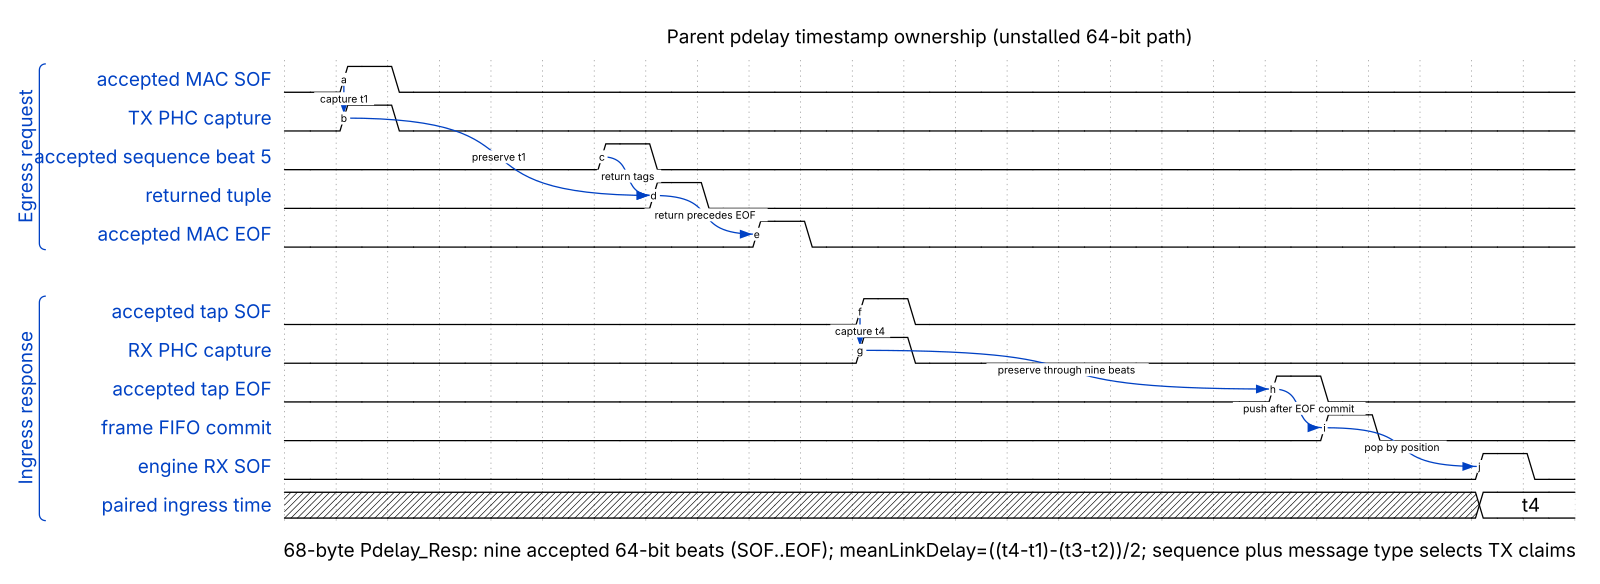
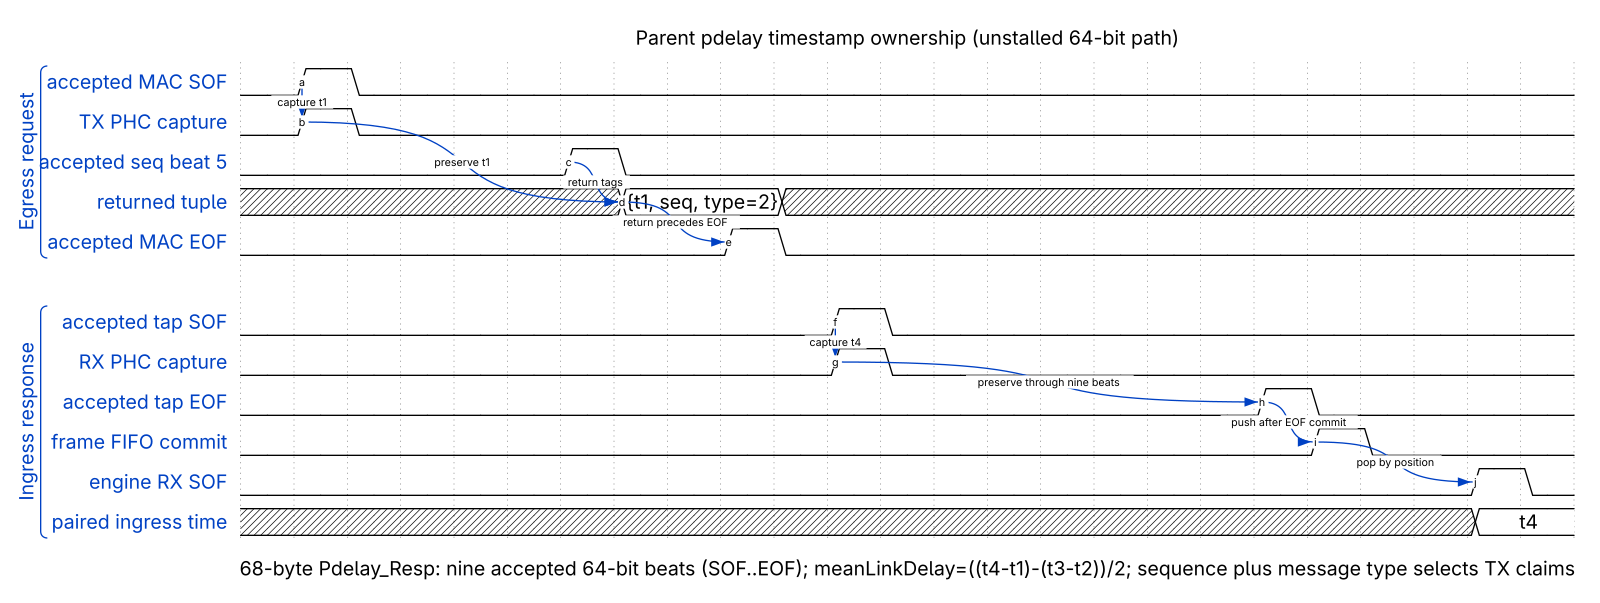
Embed the Pdelay timing authority and give both oracles negative controls

diff --git a/scripts/check_gptp_docs.py b/scripts/check_gptp_docs.py
@@ -9,6 +9,7 @@ import json
 import re
 import subprocess
 import sys
+import tempfile
 from pathlib import Path
 
 
@@ -46,6 +47,7 @@ DOCUMENT_TOKENS = {
         "Publication",
         "make -C gptp-processor",
         "make -C tb/verilator/gptp_shadow",
+        "PTP_INGRESS_LAT",
     ),
     "docs/design/TIME_SYNC.md": (
         "crf.media-clock-consumption",
@@ -55,6 +57,9 @@ DOCUMENT_TOKENS = {
         "Media clock",
         "KL_media_grid_align",
         "tu",
+        "391/1591",
+        "1.9582 s",
+        "EARLY_MARGIN_NS_C",
     ),
     "docs/design/GM_LOSS_RECOVERY.md": (
         "Announce timeout",
@@ -74,18 +79,22 @@ DOCUMENT_TOKENS = {
         "Risks",
         "Issue #74",
         "Issue #117",
+        "GM_LOSS_RECOVERY.md",
     ),
     "docs/guides/gptp/SYSTEM_INTEGRATOR.md": (
         "Configure",
         "Connect",
         "Observe",
         "Verify",
+        "GM_LOSS_RECOVERY.md",
     ),
     "docs/guides/gptp/HDL_DEVELOPER.md": (
         "KL_gptp_shadow",
         "KL_gptp_txstamp",
         "rx_accept.svg",
         "tx_backpressure.svg",
+        "wd_gptp_pdelay.svg",
+        "gtx_clk",
     ),
     "docs/guides/gptp/TEST_DEVELOPER.md": (
         "| Python |",
@@ -127,7 +136,7 @@ SOURCE_TOKENS = {
 WAVEDROM_TOKENS = (
     "accepted MAC SOF",
     "TX PHC capture",
-    "accepted sequence beat 5",
+    "accepted seq beat 5",
     "{t1, seq, type=2}",
     "accepted tap SOF",
     "RX PHC capture",
@@ -143,8 +152,8 @@ WAVEDROM_TOKENS = (
 # registered tuple before a normal Pdelay frame reaches tx_tlast_i. This order
 # is the interface contract; labels alone cannot prove it.
 WAVEDROM_ORDER = (
-    ("accepted MAC SOF", "accepted sequence beat 5"),
-    ("accepted sequence beat 5", "returned tuple"),
+    ("accepted MAC SOF", "accepted seq beat 5"),
+    ("accepted seq beat 5", "returned tuple"),
     ("returned tuple", "accepted MAC EOF"),
     ("accepted tap SOF", "accepted tap EOF"),
     ("accepted tap EOF", "frame FIFO commit"),
@@ -166,6 +175,11 @@ WAVEDROM_EXACT_DELTA = (
     ("accepted tap EOF", "frame FIFO commit", 1),
     ("frame FIFO commit", "engine RX SOF", 3),
 )
+# The one asserted event of an oracle signal is a level `1` or a WaveDrom value
+# symbol; the cycle is the symbol's string index, so `period`, `phase` and the
+# `|` stall - each of which moves a symbol off its index - are refused.
+VALUE_SYMBOLS = frozenset("=23456789")
+STALL_SYMBOL = "|"
 
 SUBMODULE_DOCS = (
     "README.md",
@@ -324,51 +338,88 @@ def flatten_json(value: object) -> list[str]:
     return [str(value)]
 
 
-def named_waves(value: object) -> dict[str, list[str]]:
-    """Collect every named WaveDrom signal without assuming group layout."""
-    waves: dict[str, list[str]] = {}
+def named_signals(value: object) -> dict[str, list[dict[str, object]]]:
+    """Collect every named WaveDrom signal object without assuming group layout."""
+    signals: dict[str, list[dict[str, object]]] = {}
     if isinstance(value, dict):
         name = value.get("name")
-        wave = value.get("wave")
-        if isinstance(name, str) and isinstance(wave, str):
-            waves.setdefault(name, []).append(wave)
+        if isinstance(name, str) and isinstance(value.get("wave"), str):
+            signals.setdefault(name, []).append(value)
         children = value.values()
     elif isinstance(value, list):
         children = value
     else:
         children = ()
     for child in children:
-        for child_name, items in named_waves(child).items():
-            waves.setdefault(child_name, []).extend(items)
-    return waves
+        for child_name, items in named_signals(child).items():
+            signals.setdefault(child_name, []).extend(items)
+    return signals
+
+
+def named_waves(value: object) -> dict[str, list[str]]:
+    """The wave string of every named WaveDrom signal, by name."""
+    return {
+        name: [str(signal["wave"]) for signal in signals]
+        for name, signals in named_signals(value).items()
+    }
+
+
+def timing_signal_names() -> set[str]:
+    """Every signal the order, same-cycle and exact-interval checks name."""
+    names = {name for pair in WAVEDROM_ORDER for name in pair}
+    names.update(name for pair in WAVEDROM_SAME_CYCLE for name in pair)
+    names.update(
+        name for before, after, _ in WAVEDROM_EXACT_DELTA for name in (before, after)
+    )
+    return names
+
+
+def event_cycle(
+    name: str, signal: dict[str, object], label: str
+) -> tuple[int | None, str]:
+    """The cycle of the one asserted event of an oracle signal, or None and the
+    finding: a `period`, a `phase` or a `|` stall is refused because the cycle
+    is read from the wave's string index, and exactly one `1` or value symbol
+    (`=`, `2`-`9`) must remain."""
+    for key in ("period", "phase"):
+        if key in signal:
+            return None, (
+                f"{label}: signal {name!r} must not set {key}; the timing oracle "
+                "reads cycles from wave indices"
+            )
+    wave = str(signal["wave"])
+    if STALL_SYMBOL in wave:
+        return None, (
+            f"{label}: signal {name!r} must not contain a {STALL_SYMBOL!r} stall; "
+            "the timing oracle reads cycles from wave indices"
+        )
+    events = [
+        index for index, symbol in enumerate(wave)
+        if symbol == "1" or symbol in VALUE_SYMBOLS
+    ]
+    if len(events) != 1:
+        return None, f"{label}: signal {name!r} must contain one asserted event"
+    return events[0], ""
 
 
 def wavedrom_value_findings(value: object, label: str) -> list[str]:
     """Label, order, same-cycle and exact-interval findings for one parsed
     WaveDrom document; `label` names it in each finding."""
     findings = token_findings(label, "\n".join(flatten_json(value)), WAVEDROM_TOKENS)
-    waves = named_waves(value)
+    signals = named_signals(value)
     cycles: dict[str, int] = {}
-    ordered_names = {name for pair in WAVEDROM_ORDER for name in pair}
-    ordered_names.update(name for pair in WAVEDROM_SAME_CYCLE for name in pair)
-    ordered_names.update(
-        name for before, after, _ in WAVEDROM_EXACT_DELTA
-        for name in (before, after)
-    )
-    for name in sorted(ordered_names):
-        matches = waves.get(name, [])
+    for name in sorted(timing_signal_names()):
+        matches = signals.get(name, [])
         if len(matches) != 1:
             findings.append(
                 f"{label}: expected one named signal {name!r}, found {len(matches)}"
             )
             continue
-        rises = [index for index, symbol in enumerate(matches[0]) if symbol == "1"]
-        if len(rises) != 1:
-            findings.append(
-                f"{label}: signal {name!r} must contain one asserted event"
-            )
+        cycle, finding = event_cycle(name, matches[0], label)
+        if cycle is None:
+            findings.append(finding)
             continue
-        cycles[name] = rises[0]
+        cycles[name] = cycle
     for before, after in WAVEDROM_ORDER:
         if before in cycles and after in cycles and cycles[before] >= cycles[after]:
             findings.append(
@@ -447,8 +498,10 @@ def gitlink_pin() -> str:
     return fields[1]
 
 
-def submodule_findings(root: Path = ROOT) -> list[str]:
-    """Findings for a donor checkout that is absent, off-pin, or missing a page."""
+def submodule_findings(root: Path = ROOT, *, pin: str | None = None) -> list[str]:
+    """Findings for the donor checkout under `root` when it is absent, off the
+    pin (`pin`; the production gitlink unless a fixture supplies one), or
+    missing a donor page."""
     checkout = root / "gptp-processor"
     if not checkout.is_dir():
         return ["gptp-processor: checkout is missing"]
@@ -459,7 +512,8 @@ def submodule_findings(root: Path = ROOT) -> list[str]:
             capture_output=True,
             text=True,
         ).stdout.strip()
-        pin = gitlink_pin()
+        if pin is None:
+            pin = gitlink_pin()
     except (OSError, subprocess.CalledProcessError, ValueError) as error:
         return [f"gptp-processor: cannot verify checkout: {error}"]
     findings = []
@@ -479,15 +533,18 @@ class SelftestFailure(Exception):
 
 def move_event(value: object, name: str, cycle: int) -> int:
     """Move the single asserted event of every signal named `name` to `cycle`
-    inside a parsed WaveDrom document; returns how many signals moved."""
+    inside a parsed WaveDrom document, keeping its symbol - a level `1` or a
+    value symbol; returns how many signals moved."""
     moved = 0
     if isinstance(value, dict):
         if value.get("name") == name and isinstance(value.get("wave"), str):
             symbols = list(value["wave"])
             if cycle >= len(symbols):
                 raise ValueError(f"cycle {cycle} is outside {name!r}")
-            symbols = ["." if symbol == "1" else symbol for symbol in symbols]
-            symbols[cycle] = "1"
+            events = [s for s in symbols if s == "1" or s in VALUE_SYMBOLS]
+            marker = events[0] if events else "1"
+            symbols = ["." if symbol == marker else symbol for symbol in symbols]
+            symbols[cycle] = marker
             value["wave"] = "".join(symbols)
             moved += 1
         children = value.values()
@@ -640,6 +697,84 @@ def wavedrom_selftest() -> int:
     return 6
 
 
+def wavedrom_shape_selftest() -> int:
+    """The wave-shape arms: the value form of the returned tuple is read as
+    its event, so displacing that `=` past EOF is caught as an order defect;
+    then a `period`, a `phase` and a `|` stall on an oracle signal are each
+    refused."""
+    production = json.loads(WAVEDROM.read_text(encoding="utf-8"))
+    waves = named_waves(production)
+    if not set(waves["returned tuple"][0]) & VALUE_SYMBOLS:
+        raise SelftestFailure("production returned tuple is not a value wave")
+    eof_cycle = waves["accepted MAC EOF"][0].index("1")
+    if move_event(production, "returned tuple", eof_cycle + 1) != 1:
+        raise SelftestFailure("value fixture drift")
+    if not any(
+        "'returned tuple' must precede 'accepted MAC EOF'" in finding
+        for finding in wavedrom_value_findings(production, "fixture")
+    ):
+        raise SelftestFailure("displaced value symbol escaped")
+    for key, mutation in (("period", 2), ("phase", 0.5), ("wave", STALL_SYMBOL)):
+        mutated = json.loads(WAVEDROM.read_text(encoding="utf-8"))
+        signal = named_signals(mutated)["accepted tap SOF"][0]
+        if key == "wave":
+            signal["wave"] = STALL_SYMBOL + str(signal["wave"])[1:]
+        else:
+            signal[key] = mutation
+        if not any(
+            "'accepted tap SOF' must not" in finding
+            for finding in wavedrom_value_findings(mutated, "fixture")
+        ):
+            raise SelftestFailure(f"{key} on an oracle signal escaped")
+    return 4
+
+
+def submodule_selftest() -> int:
+    """The donor-checkout arms on a temporary root: no checkout directory, a
+    checkout whose HEAD is not the pin, and a checkout at the pin that lacks
+    one donor page - each a finding naming its defect."""
+    with tempfile.TemporaryDirectory(prefix="gptp-docs-selftest-") as directory:
+        root = Path(directory)
+        missing = ["gptp-processor: checkout is missing"]
+        if submodule_findings(root, pin="0" * 40) != missing:
+            raise SelftestFailure("absent donor checkout escaped")
+        checkout = root / "gptp-processor"
+        for relative in SUBMODULE_DOCS:
+            page = checkout / relative
+            page.parent.mkdir(parents=True, exist_ok=True)
+            page.write_text("fixture\n", encoding="utf-8")
+        git = [
+            "git", "-c", "user.name=fixture", "-c", "user.email=fixture@invalid",
+            "-c", "commit.gpgsign=false", "-c", "init.defaultBranch=main",
+            "-C", str(checkout),
+        ]
+        subprocess.run(git + ["init", "-q"], check=True, capture_output=True)
+        subprocess.run(
+            git + ["commit", "-q", "--allow-empty", "-m", "fixture"],
+            check=True,
+            capture_output=True,
+        )
+        head = subprocess.run(
+            git + ["rev-parse", "HEAD"], check=True, capture_output=True, text=True
+        ).stdout.strip()
+        stale = "0" * 40 if head != "0" * 40 else "1" * 40
+        if not any(
+            "differs from pin" in finding
+            for finding in submodule_findings(root, pin=stale)
+        ):
+            raise SelftestFailure("off-pin donor checkout escaped")
+        if submodule_findings(root, pin=head):
+            raise SelftestFailure("pinned donor checkout fixture failed")
+        (checkout / SUBMODULE_DOCS[-1]).unlink()
+        expected = [
+            f"gptp-processor/{SUBMODULE_DOCS[-1]}: required donor documentation "
+            "is missing"
+        ]
+        if submodule_findings(root, pin=head) != expected:
+            raise SelftestFailure("missing donor page escaped")
+    return 3
+
+
 def document_selftest() -> int:
     """The page arms: production pages and source pass, and both manager
     contradictions - a wrong status row, a retired risk sentence - are found."""
@@ -668,8 +803,9 @@ def document_selftest() -> int:
 
 
 def selftest() -> int:
-    """Run every fixture arm against the production gitlink; 1 names the first
-    arm that did not bite."""
+    """Run every fixture arm - links, references, tokens, the WaveDrom timing
+    and shape oracles, the pages, and the donor checkout on a temporary root -
+    against the production gitlink; 1 names the first arm that did not bite."""
     try:
         pin = gitlink_pin()
     except (OSError, subprocess.CalledProcessError, ValueError) as error:
@@ -681,7 +817,9 @@ def selftest() -> int:
             + reference_selftest(pin)
             + token_selftest()
             + wavedrom_selftest()
+            + wavedrom_shape_selftest()
             + document_selftest()
+            + submodule_selftest()
         )
     except SelftestFailure as failure:
         print(f"gPTP docs selftest: {failure}")

diff --git a/docs/guides/gptp/HDL_DEVELOPER.md b/docs/guides/gptp/HDL_DEVELOPER.md
@@ -20,6 +20,7 @@ Use this page for parent RTL changes.
 | Parent transport | `KL_gptp_shadow` |
 | Egress capture | `KL_gptp_txstamp` |
 | PHC arithmetic | `timestamp_counter` |
+| PHC clock domain | `milan_datapath` ties `gtx_clk` to `axis_clk` |
 | Time validity | `KL_ptp_clock_validity` |
 | Public ABI | `milan_csr` and processor wrapper |
 
@@ -34,6 +35,23 @@ Read the [engine HDL guide](https://github.com/Mister-M-alt/FPGA-gPTP/blob/bacf8
 ![RX acceptance timing](https://raw.githubusercontent.com/Mister-M-alt/FPGA-gPTP/bacf812178ea0e0ca843b5c332dd62414f701fad/docs/diagrams/wavedrom/rx_accept.svg)
 
 ![TX backpressure timing](https://raw.githubusercontent.com/Mister-M-alt/FPGA-gPTP/bacf812178ea0e0ca843b5c332dd62414f701fad/docs/diagrams/wavedrom/tx_backpressure.svg)
+
+![Parent Pdelay timestamp ownership](../../diagrams/wd_gptp_pdelay.svg)
+
+The parent chronogram proves three orderings:
+
+- The tuple returns on accepted beat 5, before EOF.
+- Ingress commit follows nine accepted beats.
+- Engine SOF follows the commit by three cycles.
+
+Clock-domain precondition:
+
+- The PHC counts on `gtx_clk`.
+- The shadow samples `phc_ns_i` on `axis_clk`.
+- Every real instantiation ties `gtx_clk` to `axis_clk`.
+- `ptp_csr_sync` crosses CSR commands only.
+
+Timing rules:
 
 - RX acceptance requires a real parent transfer.
 - RX timestamps remain paired through frame commit.
